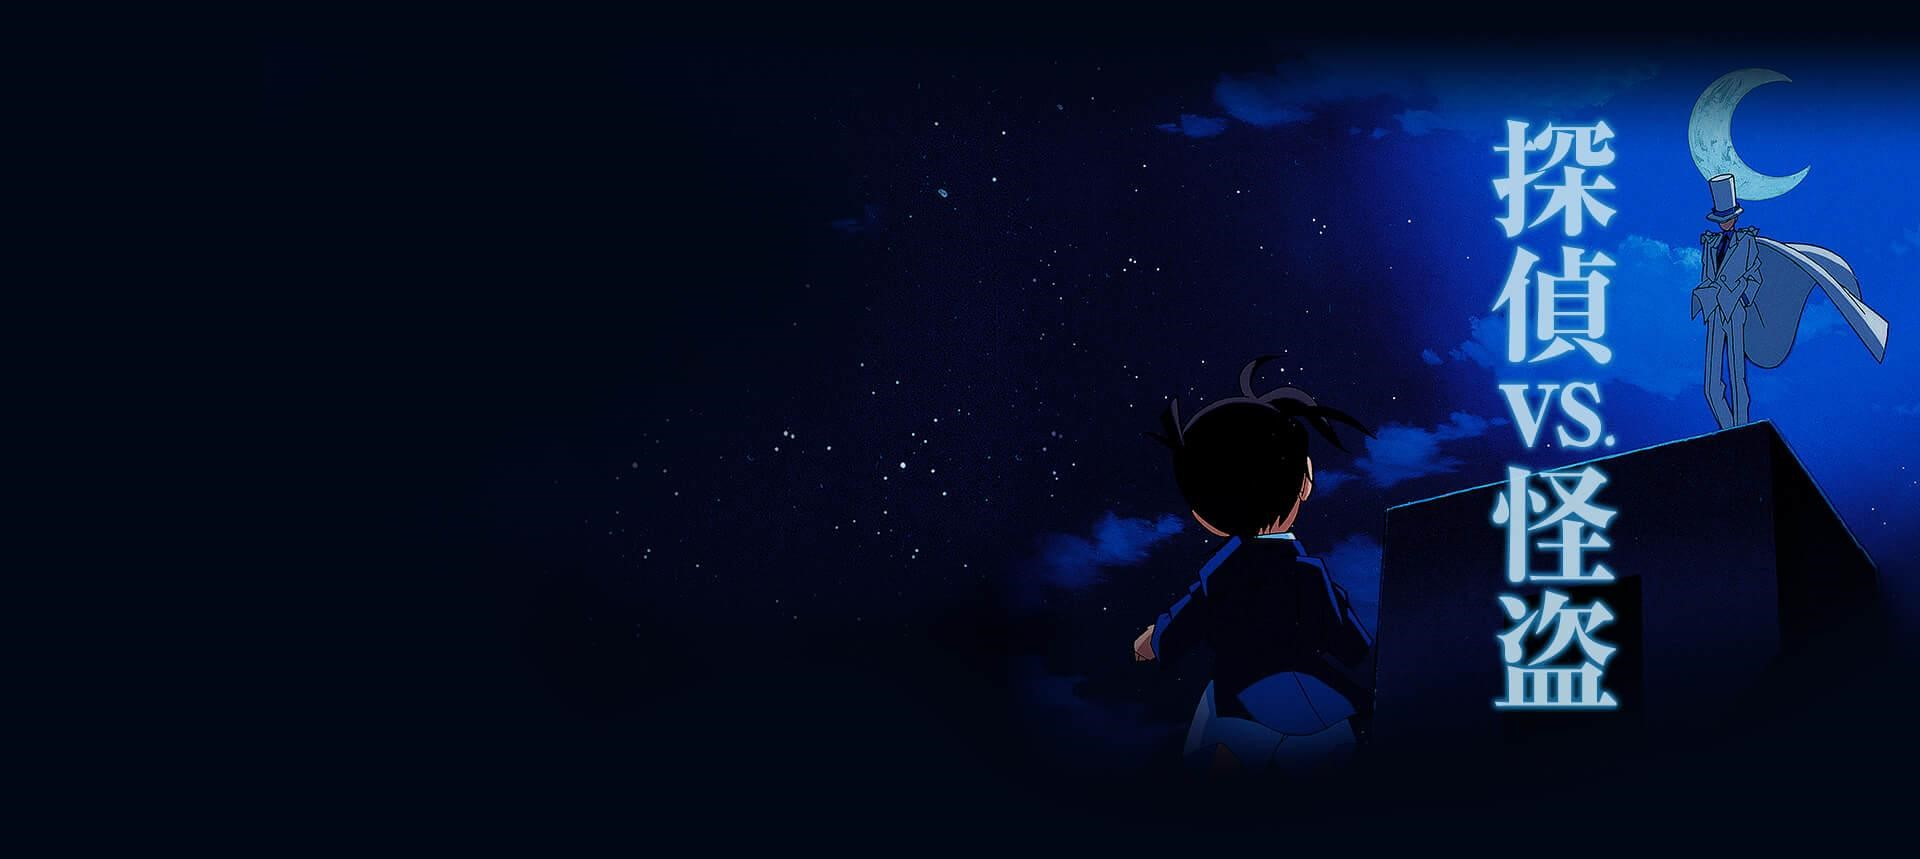
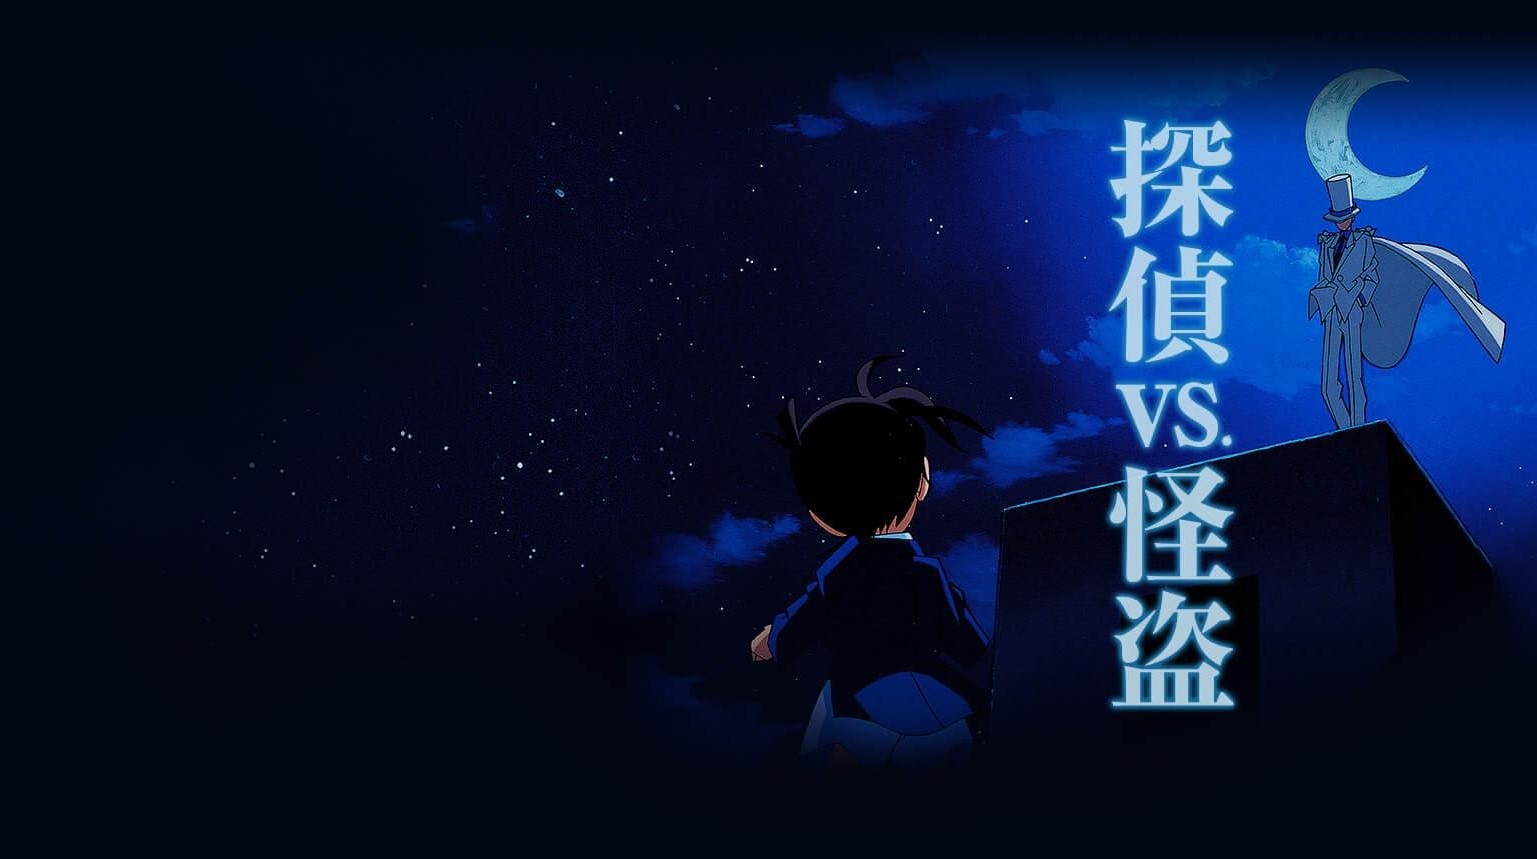
feat: SecondSection

diff --git a/src/App.vue b/src/App.vue
@@ -5,12 +5,7 @@
         <first />
       </div>
       <div class="section">
-        <img
-          ref="animatedImage"
-          src="@/assets/123.jpg"
-          alt="Your Image"
-          class="draggable-resizable rounded-lg"
-        />
+        <second />
       </div>
       <div class="section">
         <third />
@@ -19,9 +14,9 @@
         <starry-sky />
       </div>
       <!-- TODO: Update this section -->
-      <div class="section">
-        <wave />
-      </div>
+      <!--      <div class="section">-->
+      <!--        <wave />-->
+      <!--      </div>-->
     </div>
   </div>
 </template>
@@ -31,17 +26,19 @@ import anime from 'animejs';
 import Fullpage from 'fullpage.js';
 import 'fullpage.js/dist/fullpage.css';
 import first from './components/FirstSection.vue';
-import StarrySky from './components/StarrySky.vue';
+import second from './components/SecondSection.vue';
 import third from './components/ThirdSection.vue';
-import wave from './components/Waves.vue';
+import StarrySky from './components/StarrySky.vue';
+// import wave from './components/Waves.vue';
 
 export default {
   name: 'App',
   components: {
     first,
-    StarrySky,
+    second,
     third,
-    wave,
+    StarrySky,
+    // wave,
   },
   data() {
     return {
@@ -71,27 +68,17 @@ export default {
 </script>
 
 <style lang="scss" scoped>
-.draggable-resizable {
-  left: 0;
-  top: 0;
-  margin-top: -3vh;
-  width: auto;
-  height: 750px;
-  position: absolute;
-  z-index: 1;
-}
-
 #fullpage {
   height: 100vh;
 }
 
-.section:nth-child(2) {
-  background-image: url('@/assets/kid.jpg');
-  background-size: cover;
-  background-repeat: no-repeat;
-  background-position: center;
-  display: flex;
-}
+//.section:nth-child(2) {
+//  background-image: url('@/assets/kid.jpg');
+//  background-size: cover;
+//  background-repeat: no-repeat;
+//  background-position: center;
+//  display: flex;
+//}
 
 .section:nth-child(3) {
   background-image: url('@/assets/2.jpg');

diff --git a/src/components/SecondSection.vue b/src/components/SecondSection.vue
@@ -1,0 +1,38 @@
+<template>
+  <div class="container h-screen mx-auto bg-secondSection">
+    <div class="wrapper relative h-full">
+    </div>
+    <img
+      ref="animatedImage"
+      src="@/assets/123.jpg"
+      alt="Your Image"
+      class="left-1 top-0 w-auto h-full absolute"
+    />
+  </div>
+</template>
+<script>
+import anime from 'animejs';
+
+export default {
+  name: 'SecondSection',
+  mounted() {
+    this.animateImage();
+  },
+  methods: {
+    animateImage() {
+      anime({
+        targets: this.$refs.animatedImage,
+        scale: [0.5, 1], // 縮放
+        translateX: [-300, 150], // 從0位移到250px
+        duration: 2000, // 動畫持續時間 2000ms
+        easing: 'easeInOutQuad', // 動畫緩動效果
+        delay: 2000,
+      });
+    },
+  },
+};
+</script>
+
+<style scoped lang="scss">
+
+</style>

diff --git a/tailwind.config.js b/tailwind.config.js
@@ -10,6 +10,9 @@ module.exports = {
       colors: {
         'first-section': '#2c3e50',
       },
+      backgroundImage: {
+        secondSection: "url('/src/assets/kid.jpg')",
+      },
     },
   },
   variants: {
